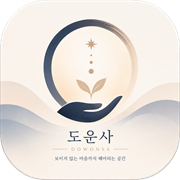
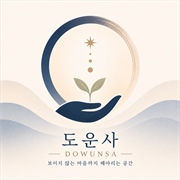
상담 프로그램 재구성: 심화상담(혼인택일/출산예정/작명), 무속상담 카테고리 추가, 그룹프로그램 제거; 천명으로 개명 반영; 앱 아이콘 갱신

diff --git a/docs/about.html b/docs/about.html
@@ -3,8 +3,8 @@
 <head>
 <meta charset="UTF-8">
 <meta name="viewport" content="width=device-width, initial-scale=1.0">
-<title>도운사 대표 소개 — 김은정 (명현)</title>
-<meta name="description" content="도운사 대표 김은정(명현)을 소개합니다. 학문과 현장의 경험이 만나는 상담의 배경을 만나보세요.">
+<title>도운사 대표 소개 — 김은정 (천명)</title>
+<meta name="description" content="도운사 대표 김은정(천명)을 소개합니다. 학문과 현장의 경험이 만나는 상담의 배경을 만나보세요.">
 <link rel="icon" type="image/png" href="assets/images/favicon-32.png">
 <link rel="apple-touch-icon" href="assets/images/apple-touch-icon.png">
 <link rel="manifest" href="manifest.json">
@@ -207,7 +207,7 @@ footer{padding:2.2rem 5rem;border-top:0.5px solid var(--border);display:flex;jus
 <div id="start-overlay" onclick="startExperience()">
   <div class="so-logo">明</div>
   <div class="so-title">道運寺 도운사</div>
-  <div class="so-sub">김은정 · 명현 대표 소개</div>
+  <div class="so-sub">김은정 · 천명 대표 소개</div>
   <button class="so-btn">입장하기 ▶</button>
 </div>
 
@@ -236,12 +236,12 @@ footer{padding:2.2rem 5rem;border-top:0.5px solid var(--border);display:flex;jus
 <div class="hero">
   <div class="hero-left">
     <div id="hero-bg"><canvas id="hero-canvas"></canvas></div>
-    <img id="hero-photo" src="assets/images/profile.jpg" alt="김은정 명현 대표" onload="this.style.display='block';document.getElementById('hero-canvas').style.opacity='0.25';" onerror="this.style.display='none';">
+    <img id="hero-photo" src="assets/images/profile.jpg" alt="김은정 천명 대표" onload="this.style.display='block';document.getElementById('hero-canvas').style.opacity='0.25';" onerror="this.style.display='none';">
     <div class="hero-overlay"></div>
     <span class="float-k">運</span><span class="float-k">明</span><span class="float-k">道</span>
     <div class="hero-info">
-      <div class="hero-badge">명현 · 도운사 대표 무속인</div>
-      <p class="hero-hanja">明賢 · 도운사</p>
+      <div class="hero-badge">천명 · 도운사 대표 무속인</div>
+      <p class="hero-hanja">天命 · 도운사</p>
       <h1 class="hero-name">김은정</h1>
       <p class="hero-tagline">학문과 삶, 현장의 경험과<br>깊은 안목이 하나로 만나는 자리에서<br>사람의 이야기를 듣고 방향을 함께 찾습니다.</p>
     </div>
@@ -268,7 +268,7 @@ footer{padding:2.2rem 5rem;border-top:0.5px solid var(--border);display:flex;jus
   <div class="showcase-slot" id="ss-jakdu">
     <canvas class="ss-canvas" data-type="jakdu"></canvas>
     <img id="ss-jakdu-img" src="assets/images/jakdu.jpg" alt="12작두 타기" onload="this.style.display='block';" onerror="this.style.display='none';">
-    <div class="showcase-info"><div class="showcase-hanja">劍</div><div class="showcase-name">12 작두 타기</div><div class="showcase-desc">12개의 날 선 작두 위에 맨발로 오르는 신의 증험. 도운사 명현만의 전문 의례</div></div>
+    <div class="showcase-info"><div class="showcase-hanja">劍</div><div class="showcase-name">12 작두 타기</div><div class="showcase-desc">12개의 날 선 작두 위에 맨발로 오르는 신의 증험. 도운사 천명만의 전문 의례</div></div>
   </div>
   <div class="showcase-slot" id="ss-chundo">
     <canvas class="ss-canvas" data-type="chundo"></canvas>
@@ -313,7 +313,7 @@ footer{padding:2.2rem 5rem;border-top:0.5px solid var(--border);display:flex;jus
     <div class="ci"><div class="ci-dc"><div class="ci-dot"></div><div class="ci-line"></div></div><div><p class="ci-per">사회 활동</p><p class="ci-role">상록수 부산지역 부회장 역임 · 봉사 대상 수상</p><p class="ci-org">지역 사회와의 깊은 연결, 나눔의 기록</p></div></div>
     <div class="ci"><div class="ci-dc"><div class="ci-dot"></div><div class="ci-line"></div></div><div><p class="ci-per">대학원</p><p class="ci-role">국립부경대학교 경영대학원 석사 졸업</p><p class="ci-org">학문의 깊이를 더하다</p></div></div>
     <div class="ci cur"><div class="ci-dc"><div class="ci-dot"></div><div class="ci-line"></div></div><div><p class="ci-per">현재</p><p class="ci-role">한국민속문화삼족오연합회 여성회장</p><p class="ci-org">민속 문화와 여성 리더십의 현장에서</p></div></div>
-    <div class="ci cur"><div class="ci-dc"><div class="ci-dot"></div></div><div><p class="ci-per">현재</p><p class="ci-role">도운사 대표 · 명현 (明賢)</p><p class="ci-org">모든 경험이 하나로 모이는 자리</p></div></div>
+    <div class="ci cur"><div class="ci-dc"><div class="ci-dot"></div></div><div><p class="ci-per">현재</p><p class="ci-role">도운사 대표 · 천명 (天命)</p><p class="ci-org">모든 경험이 하나로 모이는 자리</p></div></div>
   </div>
 </section>
 
@@ -326,7 +326,7 @@ footer{padding:2.2rem 5rem;border-top:0.5px solid var(--border);display:flex;jus
       <p class="sec-desc" style="margin-bottom:2rem;">학문과 봉사, 경영과 무속. 서로 다른 길처럼 보이지만 결국 같은 곳을 향했습니다. 사람을 깊이 이해하고, 더 나은 방향을 함께 찾는 것.</p>
       <div class="quote-block">
         <p class="quote-text">"공부는 사람을 이해하기 위해서,<br>경험은 사람과 함께하기 위해서,<br>그리고 지금 이 자리는<br>그 모든 것을 나누기 위해서입니다."</p>
-        <p class="quote-attr">— 명현 (明賢) 김은정</p>
+        <p class="quote-attr">— 천명 (天命) 김은정</p>
       </div>
     </div>
     <div class="pp-list">
@@ -348,12 +348,12 @@ footer{padding:2.2rem 5rem;border-top:0.5px solid var(--border);display:flex;jus
 
 <!-- ── CTA ── -->
 <div class="cta-strip">
-  <div><p class="cta-t">명현과 함께하는 상담을 예약하세요</p><p class="cta-d">처음 오시는 분은 기본 상담 60분부터 시작합니다.</p></div>
+  <div><p class="cta-t">천명과 함께하는 상담을 예약하세요</p><p class="cta-d">처음 오시는 분은 기본 상담 60분부터 시작합니다.</p></div>
   <a href="reservation.html" class="btn-dk">상담 예약하기</a>
 </div>
 <footer>
   <p class="f-logo">道運寺 도운사</p>
-  <div class="f-info"><p>대표 김은정 (명현) · dowunsa.com · 부산</p><p style="margin-top:0.2rem;">© 2025 Dowunsa. All rights reserved.</p></div>
+  <div class="f-info"><p>대표 김은정 (천명) · dowunsa.com · 부산</p><p style="margin-top:0.2rem;">© 2025 Dowunsa. All rights reserved.</p></div>
   <a href="index.html" style="font-size:0.7rem;color:var(--ink-muted);text-decoration:none;">홈으로</a>
 </footer>
 

diff --git a/docs/reservation.html b/docs/reservation.html
@@ -94,6 +94,24 @@
     font-size: 0.75rem;
     color: var(--gold);
   }
+  .program-group {
+    border: 0.5px solid var(--border);
+    padding: 1.2rem 1.3rem;
+    background: white;
+  }
+  .subtab-list { display: flex; flex-direction: column; gap: 0.5rem; }
+  .subtab-item {
+    display: flex; justify-content: space-between; align-items: center;
+    padding: 0.65rem 0.85rem;
+    border: 0.5px solid var(--border);
+    cursor: pointer;
+    font-size: 0.85rem;
+    transition: all 0.3s;
+  }
+  .subtab-item:hover { border-color: var(--gold); }
+  .subtab-item.selected { border-color: var(--gold); background: var(--gold-light); }
+  .subtab-name { color: var(--ink); }
+  .subtab-price { font-size: 0.78rem; color: var(--gold); }
   .prog-name {
     font-family: var(--serif);
     font-size: 0.95rem;
@@ -274,25 +292,57 @@
         <p class="prog-price">200,000원 · 60분</p>
         <p class="prog-desc">처음 오시는 분께 권합니다. 정서 및 인생 방향 상담.</p>
       </div>
-      <div class="program-item" onclick="selectProgram(this, '심화 상담')" data-program="심화 상담">
+
+      <div class="program-group">
         <p class="prog-name">심화 상담</p>
-        <p class="prog-price">별도 안내</p>
-        <p class="prog-desc">기본 상담 이후 더 깊은 과정이 필요하신 분.</p>
+        <p class="prog-desc" style="margin-bottom:0.7rem;">기본 상담 이후 더 깊은 전문 상담이 필요하신 분.</p>
+        <div class="subtab-list">
+          <div class="subtab-item" onclick="selectProgram(this, '혼인택일')" data-program="혼인택일">
+            <span class="subtab-name">혼인택일</span><span class="subtab-price">300,000원</span>
+          </div>
+          <div class="subtab-item" onclick="selectProgram(this, '출산예정')" data-program="출산예정">
+            <span class="subtab-name">출산예정</span><span class="subtab-price">상담 후 결정</span>
+          </div>
+          <div class="subtab-item" onclick="selectProgram(this, '작명')" data-program="작명">
+            <span class="subtab-name">작명</span><span class="subtab-price">300,000원</span>
+          </div>
+        </div>
       </div>
+
       <div class="program-item" onclick="selectProgram(this, 'VIP 프라이빗 상담')" data-program="VIP 프라이빗 상담">
         <p class="prog-name">VIP 프라이빗 상담</p>
         <p class="prog-price">800,000 – 1,500,000원</p>
         <p class="prog-desc">비공개 예약. 전문직·사업가·정치 관계자 대상.</p>
       </div>
-      <div class="program-item" onclick="selectProgram(this, '그룹 프로그램')" data-program="그룹 프로그램">
-        <p class="prog-name">그룹 프로그램</p>
-        <p class="prog-price">250,000 – 500,000원 (1인)</p>
-        <p class="prog-desc">중년 여성 회복 클래스 · 감정 회복 소규모 정기과정.</p>
-      </div>
       <div class="program-item" onclick="selectProgram(this, '풍수 인테리어 (양택)')" data-program="풍수 인테리어 (양택)">
         <p class="prog-name">풍수 인테리어 (양택)</p>
         <p class="prog-price">300,000원 기본 + 70,000원/평</p>
         <p class="prog-desc">공간의 흐름을 읽고 재정비합니다. 30평 기준 기본료.</p>
+      </div>
+
+      <div class="program-group">
+        <p class="prog-name">무속 상담</p>
+        <p class="prog-desc" style="margin-bottom:0.7rem;">조상해원천도·신굿·칠성굿·12계단작두굿·기타운맞이·사업재수굿 등은 상담 후 진행합니다. 금액도 상담 후 결정됩니다.</p>
+        <div class="subtab-list">
+          <div class="subtab-item" onclick="selectProgram(this, '조상해원천도')" data-program="조상해원천도">
+            <span class="subtab-name">조상해원천도</span><span class="subtab-price">상담 후 결정</span>
+          </div>
+          <div class="subtab-item" onclick="selectProgram(this, '신굿')" data-program="신굿">
+            <span class="subtab-name">신굿</span><span class="subtab-price">상담 후 결정</span>
+          </div>
+          <div class="subtab-item" onclick="selectProgram(this, '칠성굿')" data-program="칠성굿">
+            <span class="subtab-name">칠성굿</span><span class="subtab-price">상담 후 결정</span>
+          </div>
+          <div class="subtab-item" onclick="selectProgram(this, '12계단작두굿')" data-program="12계단작두굿">
+            <span class="subtab-name">12계단작두굿</span><span class="subtab-price">상담 후 결정</span>
+          </div>
+          <div class="subtab-item" onclick="selectProgram(this, '기타운맞이')" data-program="기타운맞이">
+            <span class="subtab-name">기타운맞이</span><span class="subtab-price">상담 후 결정</span>
+          </div>
+          <div class="subtab-item" onclick="selectProgram(this, '사업재수굿')" data-program="사업재수굿">
+            <span class="subtab-name">사업재수굿</span><span class="subtab-price">상담 후 결정</span>
+          </div>
+        </div>
       </div>
     </div>
 
@@ -530,7 +580,7 @@
   }
 
   function selectProgram(el, name) {
-    document.querySelectorAll('.program-item').forEach(i => i.classList.remove('selected'));
+    document.querySelectorAll('.program-item, .subtab-item').forEach(i => i.classList.remove('selected'));
     el.classList.add('selected');
     document.getElementById('selectedProgram').value = name;
   }

diff --git a/docs/admin-dashboard.html b/docs/admin-dashboard.html
@@ -210,10 +210,21 @@
       <label>상담 프로그램</label>
       <select id="ad_program">
         <option>기본 상담 (60분)</option>
-        <option>심화 상담</option>
+        <optgroup label="심화 상담">
+          <option>혼인택일</option>
+          <option>출산예정</option>
+          <option>작명</option>
+        </optgroup>
         <option>VIP 프라이빗 상담</option>
-        <option>그룹 프로그램</option>
         <option>풍수 인테리어 (양택)</option>
+        <optgroup label="무속 상담">
+          <option>조상해원천도</option>
+          <option>신굿</option>
+          <option>칠성굿</option>
+          <option>12계단작두굿</option>
+          <option>기타운맞이</option>
+          <option>사업재수굿</option>
+        </optgroup>
       </select>
     </div>
     <div class="modal-row">
@@ -323,22 +334,21 @@ const BIRTH_TIME_TO_ZHI = {
 };
 
 /* ══ 상담 카테고리 ══ */
-const PROGRAMS = ['기본 상담 (60분)', '심화 상담', 'VIP 프라이빗 상담', '그룹 프로그램', '풍수 인테리어 (양택)'];
-function shortProgram(p) {
-  if (!p) return '상담';
-  if (p.startsWith('기본')) return '기본';
-  if (p.startsWith('심화')) return '심화';
-  if (p.startsWith('VIP')) return 'VIP';
-  if (p.startsWith('그룹')) return '그룹';
-  if (p.startsWith('풍수')) return '풍수';
-  return p;
-}
+const CATEGORY_GROUPS = [
+  { label: '기본 상담', programs: ['기본 상담 (60분)'] },
+  { label: '심화 상담', programs: ['혼인택일', '출산예정', '작명'] },
+  { label: 'VIP', programs: ['VIP 프라이빗 상담'] },
+  { label: '풍수 인테리어', programs: ['풍수 인테리어 (양택)'] },
+  { label: '무속 상담', programs: ['조상해원천도', '신굿', '칠성굿', '12계단작두굿', '기타운맞이', '사업재수굿'] },
+];
+const PROGRAMS = CATEGORY_GROUPS.flatMap(g => g.programs);
+const DOC_TYPES = { '혼인택일': 'marriage', '출산예정': 'birth', '작명': 'naming' };
 
 /* ══ 상태 ══ */
 const state = {
   reservations: [],
   appointments: [],
-  filterProgram: null,
+  filterGroup: null,
   view: 'list',
   calDate: new Date(),
 };
@@ -395,21 +405,18 @@ function setView(v) {
 
 /* ══ 사이드바 ══ */
 function renderSidebar() {
-  const counts = {};
-  PROGRAMS.forEach(p => counts[p] = 0);
-  state.reservations.forEach(r => { if (counts.hasOwnProperty(r.program)) counts[r.program]++; });
   const total = state.reservations.length;
-
   const el = document.getElementById('catList');
-  let html = `<button class="cat-item ${state.filterProgram===null?'active':''}" onclick="setFilter(null)"><span>전체</span><span class="cat-count">${total}</span></button>`;
-  PROGRAMS.forEach(p => {
-    html += `<button class="cat-item ${state.filterProgram===p?'active':''}" onclick="setFilter('${p.replace(/'/g,"\\'")}')"><span>${shortProgram(p)}</span><span class="cat-count">${counts[p]}</span></button>`;
+  let html = `<button class="cat-item ${state.filterGroup===null?'active':''}" onclick="setFilter(null)"><span>전체</span><span class="cat-count">${total}</span></button>`;
+  CATEGORY_GROUPS.forEach((g, i) => {
+    const count = state.reservations.filter(r => g.programs.includes(r.program)).length;
+    html += `<button class="cat-item ${state.filterGroup===i?'active':''}" onclick="setFilter(${i})"><span>${g.label}</span><span class="cat-count">${count}</span></button>`;
   });
   el.innerHTML = html;
 }
 
-function setFilter(program) {
-  state.filterProgram = program;
+function setFilter(groupIdx) {
+  state.filterGroup = groupIdx;
   renderSidebar();
   renderList();
 }
@@ -417,7 +424,9 @@ function setFilter(program) {
 /* ══ 목록 뷰 ══ */
 function renderList() {
   const list = document.getElementById('list');
-  const filtered = state.filterProgram ? state.reservations.filter(r => r.program === state.filterProgram) : state.reservations;
+  const filtered = state.filterGroup !== null
+    ? state.reservations.filter(r => CATEGORY_GROUPS[state.filterGroup].programs.includes(r.program))
+    : state.reservations;
   if (filtered.length === 0) {
     list.innerHTML = '<div class="empty-state">해당 카테고리에 예약이 없습니다.</div>';
     return;

diff --git a/docs/index.html b/docs/index.html
@@ -644,9 +644,9 @@
     <div class="service-card">
       <p class="service-num">02</p>
       <p class="service-name">심화 상담</p>
-      <p class="service-desc">기본 상담 이후 더 깊이 들어가는 과정. 지속적인 방향 설정이 필요할 때.</p>
-      <p class="service-price">별도 안내</p>
-      <p class="service-price-sub">재방문 고객 · 맞춤 구성</p>
+      <p class="service-desc">혼인택일 · 출산예정 · 작명. 기본 상담 이후 더 깊이 들어가는 전문 과정.</p>
+      <p class="service-price">300,000원~</p>
+      <p class="service-price-sub">혼인택일·작명 30만원 · 출산예정 상담 후 결정</p>
     </div>
     <div class="service-card featured">
       <span class="service-badge">PRIVATE</span>
@@ -658,10 +658,10 @@
     </div>
     <div class="service-card">
       <p class="service-num">04</p>
-      <p class="service-name">그룹 프로그램</p>
-      <p class="service-desc">중년 여성 회복 클래스 · 인간관계 감정 회복 프로그램. 소규모 정기과정.</p>
-      <p class="service-price">250,000 – 500,000원</p>
-      <p class="service-price-sub">1인 기준 · 소규모 정기과정</p>
+      <p class="service-name">무속 상담</p>
+      <p class="service-desc">조상해원천도 · 신굿 · 칠성굿 · 12계단작두굿 · 기타운맞이 · 사업재수굿</p>
+      <p class="service-price">상담 후 결정</p>
+      <p class="service-price-sub">의식 종류·규모에 따라 별도 안내</p>
     </div>
     <div class="service-card">
       <p class="service-num">05</p>

diff --git a/docs/admin-saju.html b/docs/admin-saju.html
@@ -329,7 +329,7 @@ function calcSaju() {
   if (weakestList.length > 0) {
     interpText += ` ${weakestList.join(', ')} 기운은 사주 원국에 나타나지 않아, 상담 시 보완이 필요한 영역으로 참고하실 수 있습니다.`;
   }
-  interpText += ' (이 해석은 오행 개수만을 근거로 한 단순 참고용 메모이며, 실제 상담은 명현 대표님의 전문적 판단을 따릅니다.)';
+  interpText += ' (이 해석은 오행 개수만을 근거로 한 단순 참고용 메모이며, 실제 상담은 천명 대표님의 전문적 판단을 따릅니다.)';
 
   document.getElementById('interp').innerHTML = interpText;
   document.getElementById('convertNote').innerHTML = convertNote;

diff --git a/docs/privacy.html b/docs/privacy.html
@@ -67,7 +67,7 @@
   <p>이용자는 언제든지 자신의 개인정보 열람, 정정, 삭제, 처리정지를 요청할 수 있습니다. 요청은 아래 연락처로 접수해주시면 지체 없이 조치합니다.</p>
 
   <h2>6. 개인정보 보호 책임자</h2>
-  <p>성명: 김은정(명현) · 문의: <a href="https://open.kakao.com/o/sWJt3TGi" target="_blank" rel="noopener" style="color:var(--gold);">카카오톡 오픈채팅</a></p>
+  <p>성명: 김은정(천명) · 문의: <a href="https://open.kakao.com/o/sWJt3TGi" target="_blank" rel="noopener" style="color:var(--gold);">카카오톡 오픈채팅</a></p>
 </div>
 </body>
 </html>
